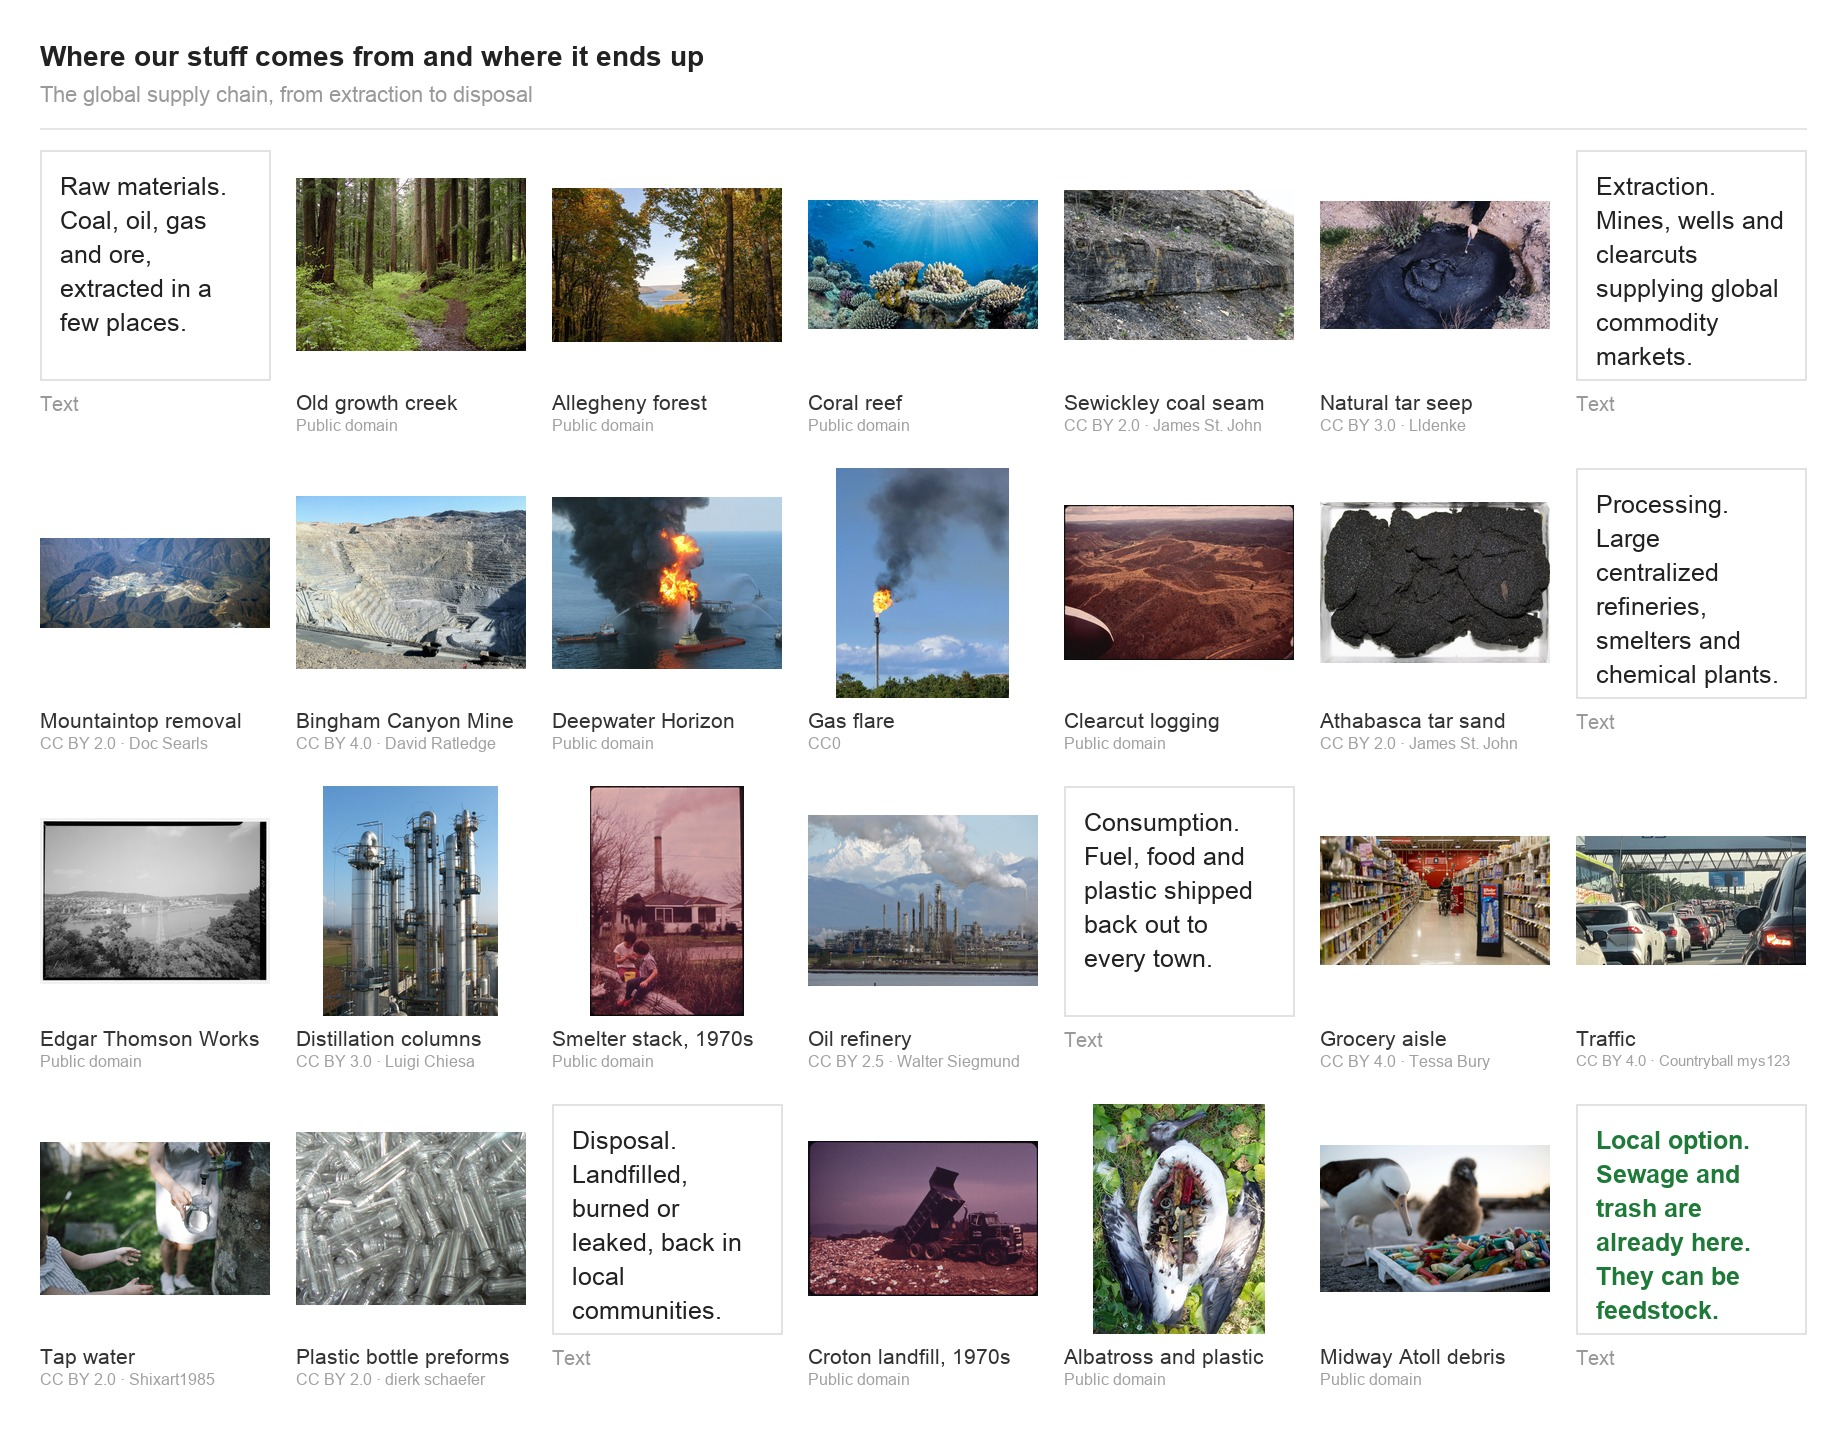
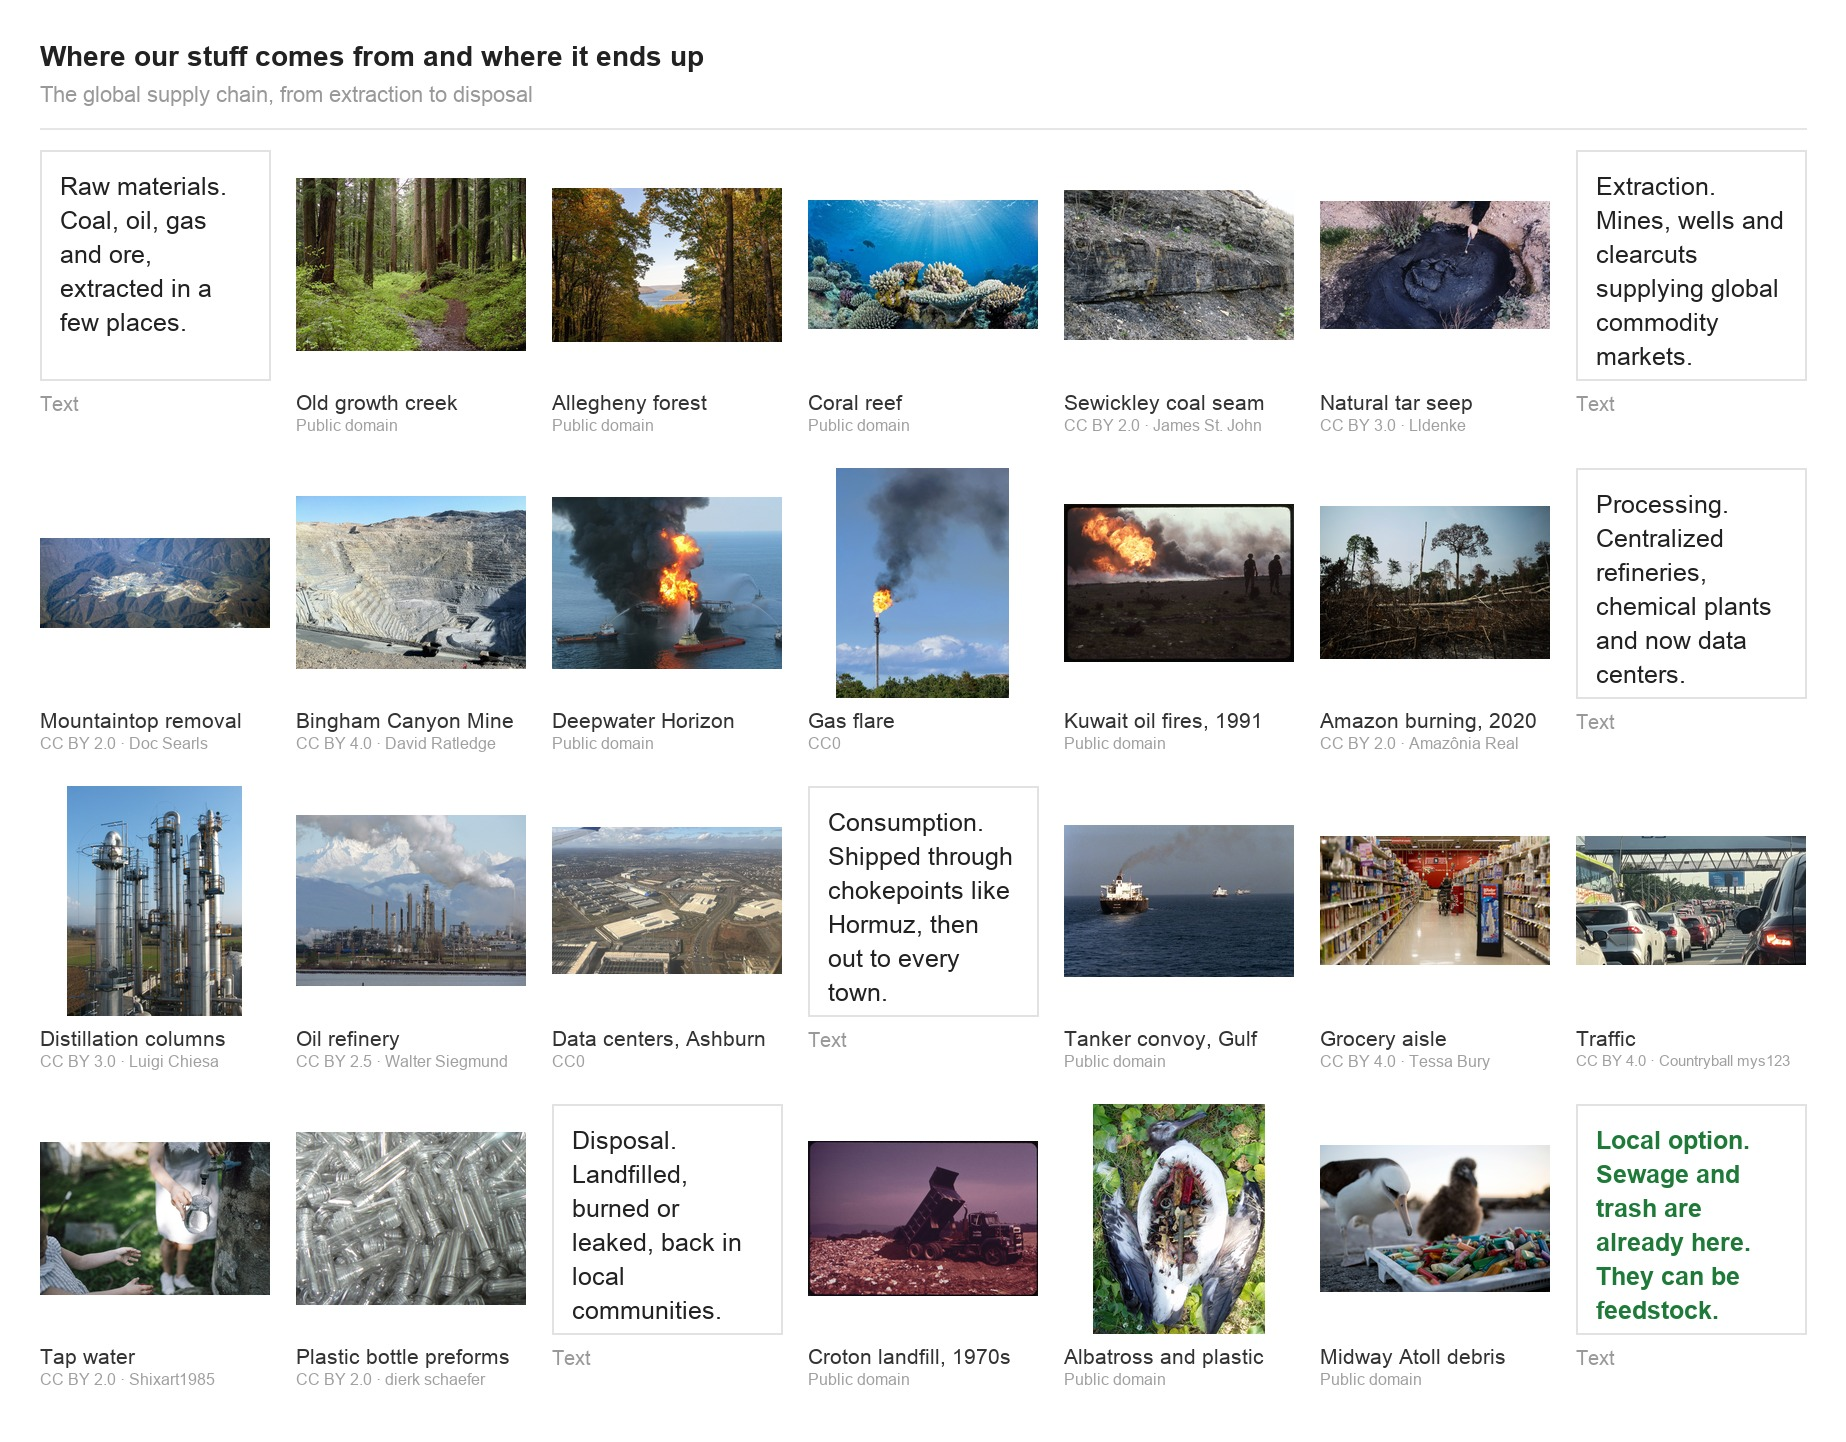
Update photo grid with data centers, Kuwait, the Amazon and a Gulf convoy; greet in Chinese

diff --git a/index.html b/index.html
@@ -30,7 +30,7 @@ I am a licensed Professional Engineer (PE) in the state of New York.
 <p>
 My research interests include superstructure formulation, optimization, causality, waste valorization, world models and market decentralization.
 </p>
-<figure style="max-width:920px"><img src="images/taken_made_thrown_away.jpg" alt="A grid of photos following the global supply chain: forests, reefs and coal seams; mountaintop removal, the Deepwater Horizon fire and a gas flare; steel works and refineries; grocery aisles and traffic; a landfill and albatrosses full of plastic; ending with the note that what we throw away could replace what we take"><figcaption>Photos are public domain or Creative Commons, credited under each image.</figcaption></figure>
+<figure style="max-width:920px"><img src="images/taken_made_thrown_away.jpg" alt="A grid of photos following the global supply chain: forests, reefs and coal seams; mountaintop removal, the Deepwater Horizon fire, a gas flare, the 1991 Kuwait oil fires and Amazon burning; refineries and data centers; a tanker convoy in the Gulf; grocery aisles and traffic; a landfill and albatrosses full of plastic; ending with the note that what we throw away could replace what we take"><figcaption>Photos are public domain or Creative Commons, credited under each image.</figcaption></figure>
 <h3>Education</h3>
 M.S. Chemical Engineering, Carnegie Mellon University (Expected 2026)<br>
 B.S. Chemical Engineering (Minors: Bioengineering, Chemistry), Texas Tech University, 2015
@@ -100,7 +100,7 @@ I have worked on over 35 industry projects with clients including the World Bank
 @media (max-width:600px){#kcat-btn img{width:62px}#kcat-panel{bottom:86px}#kcat-hi{bottom:76px;right:56px}}
 </style>
 <div id="kcat">
-  <div id="kcat-hi">hi! want the plain terms version?</div>
+  <div id="kcat-hi">你好! (I'm learning) want the plain terms version?</div>
   <div id="kcat-panel" role="dialog" aria-label="Ask about Keegan's work">
     <button id="kcat-close" aria-label="Close">×</button>
     <h4>Keegan's work, in plain terms</h4>
